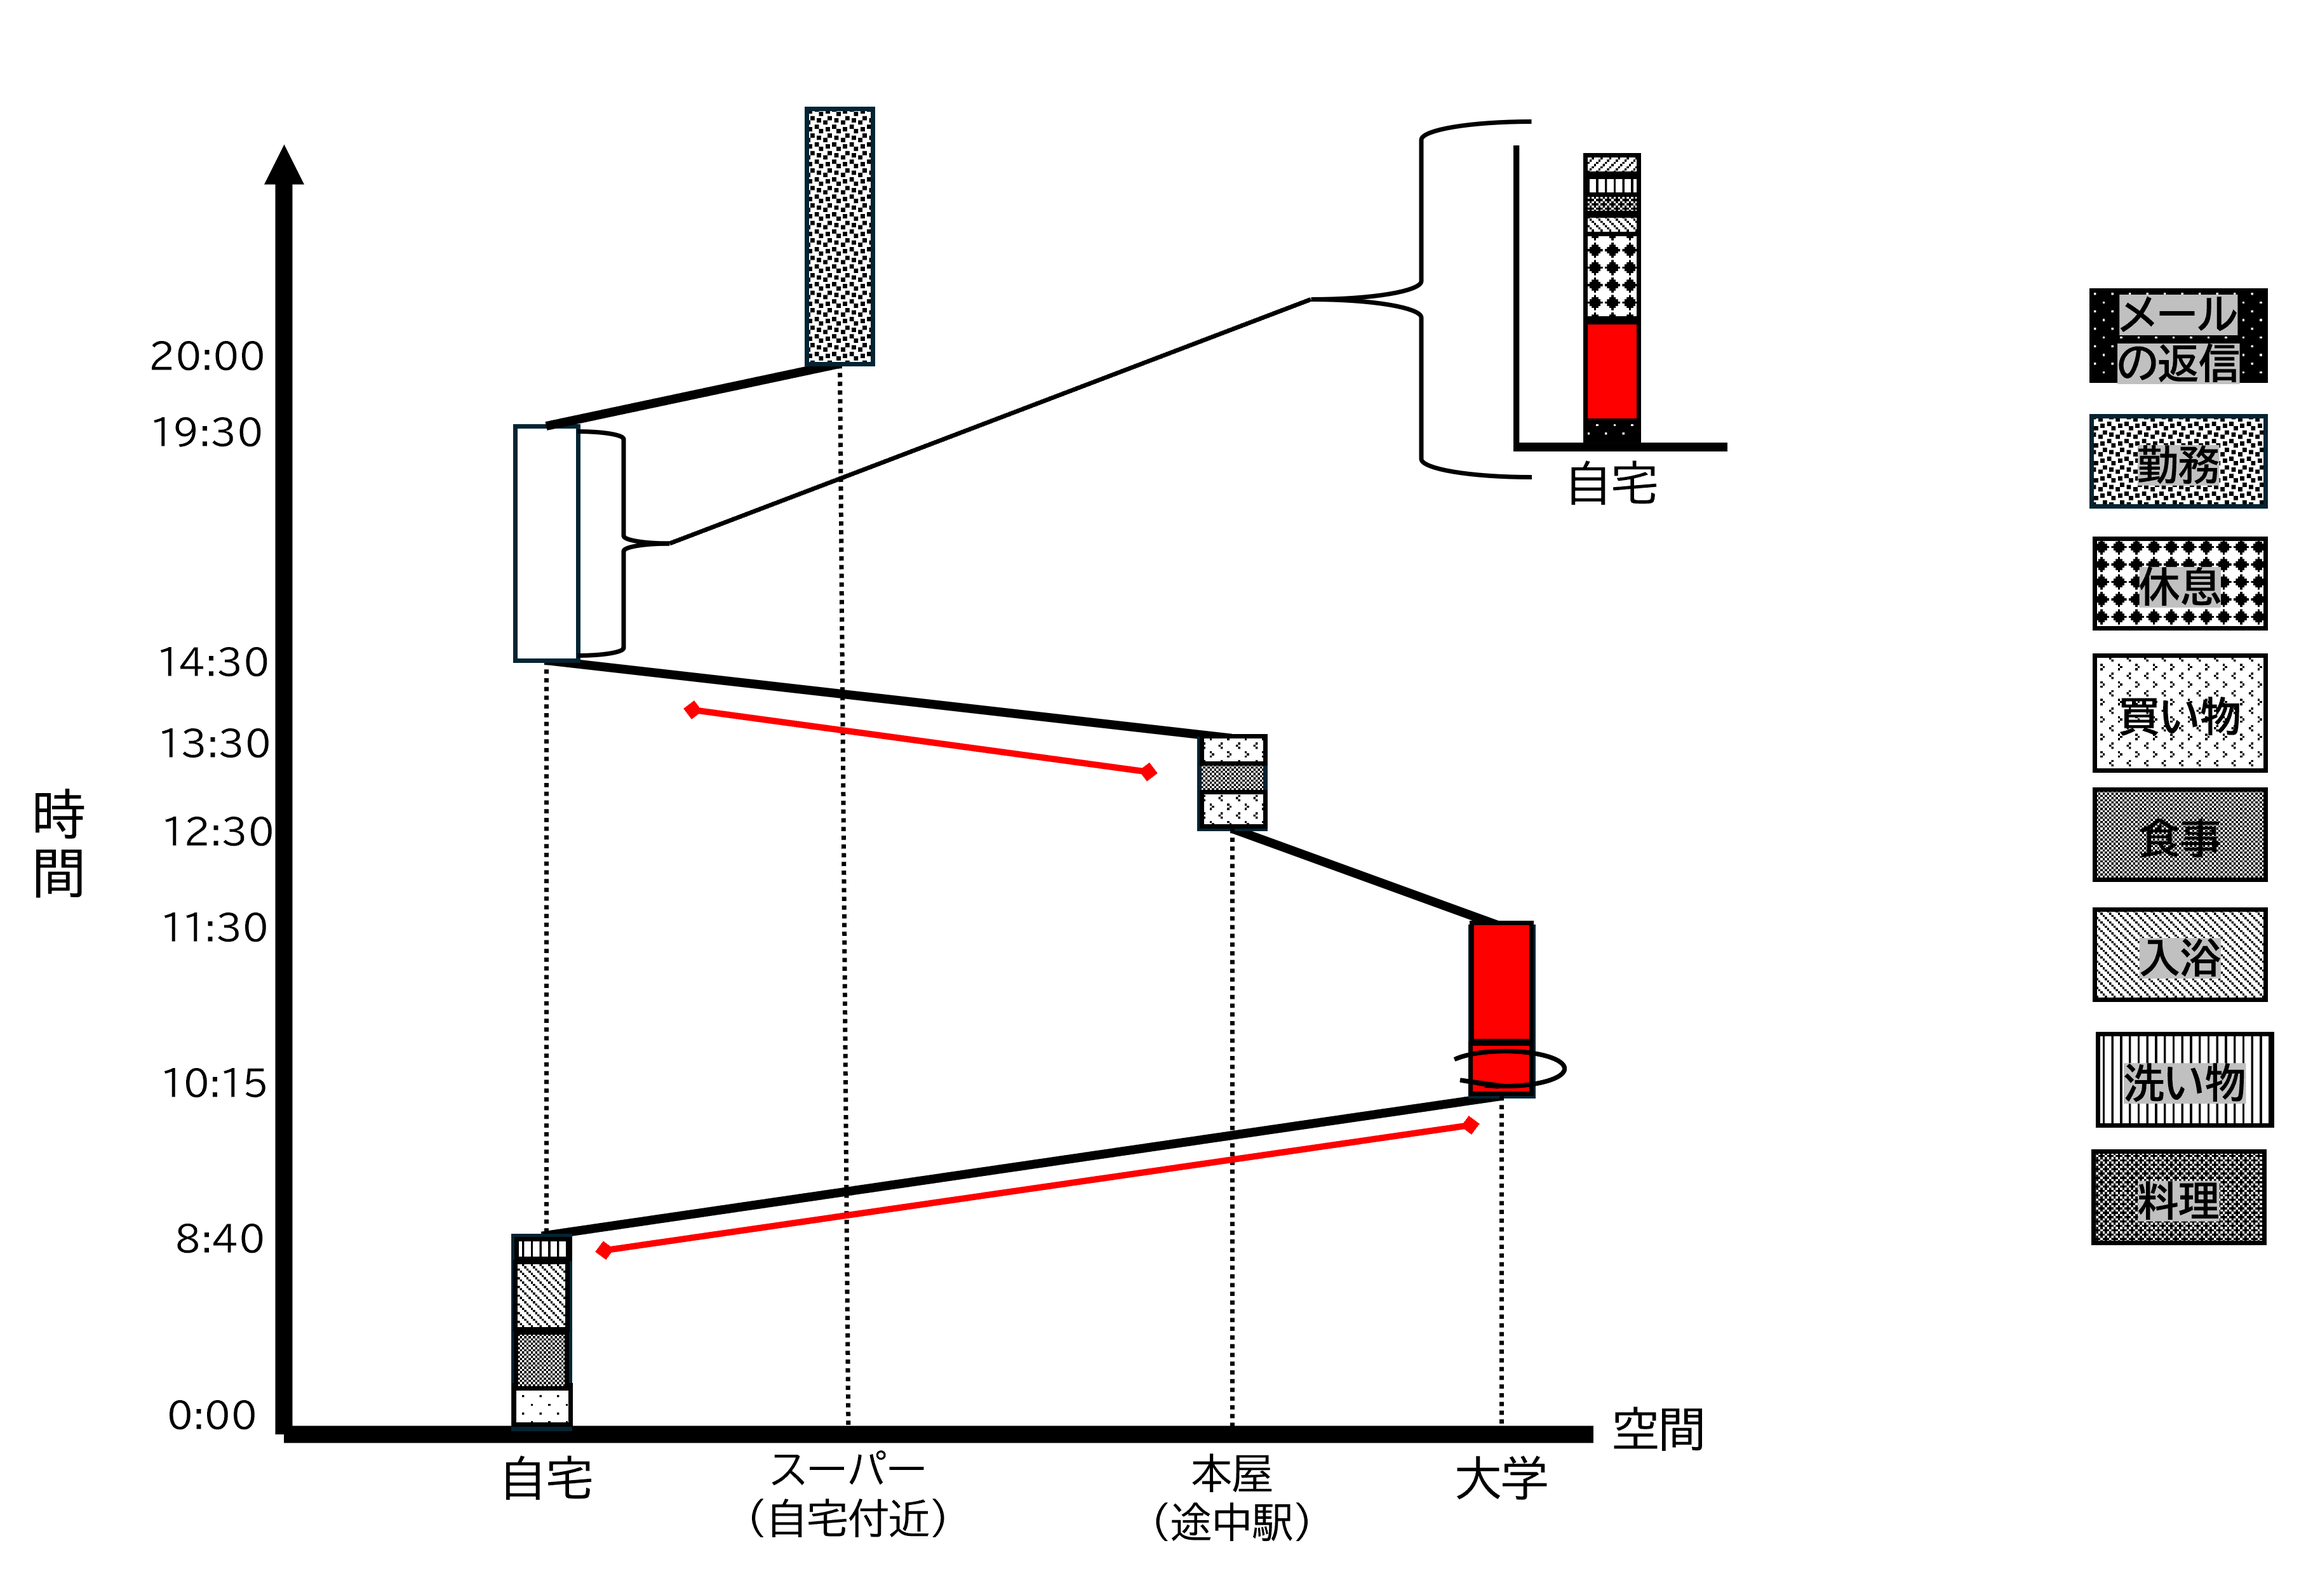
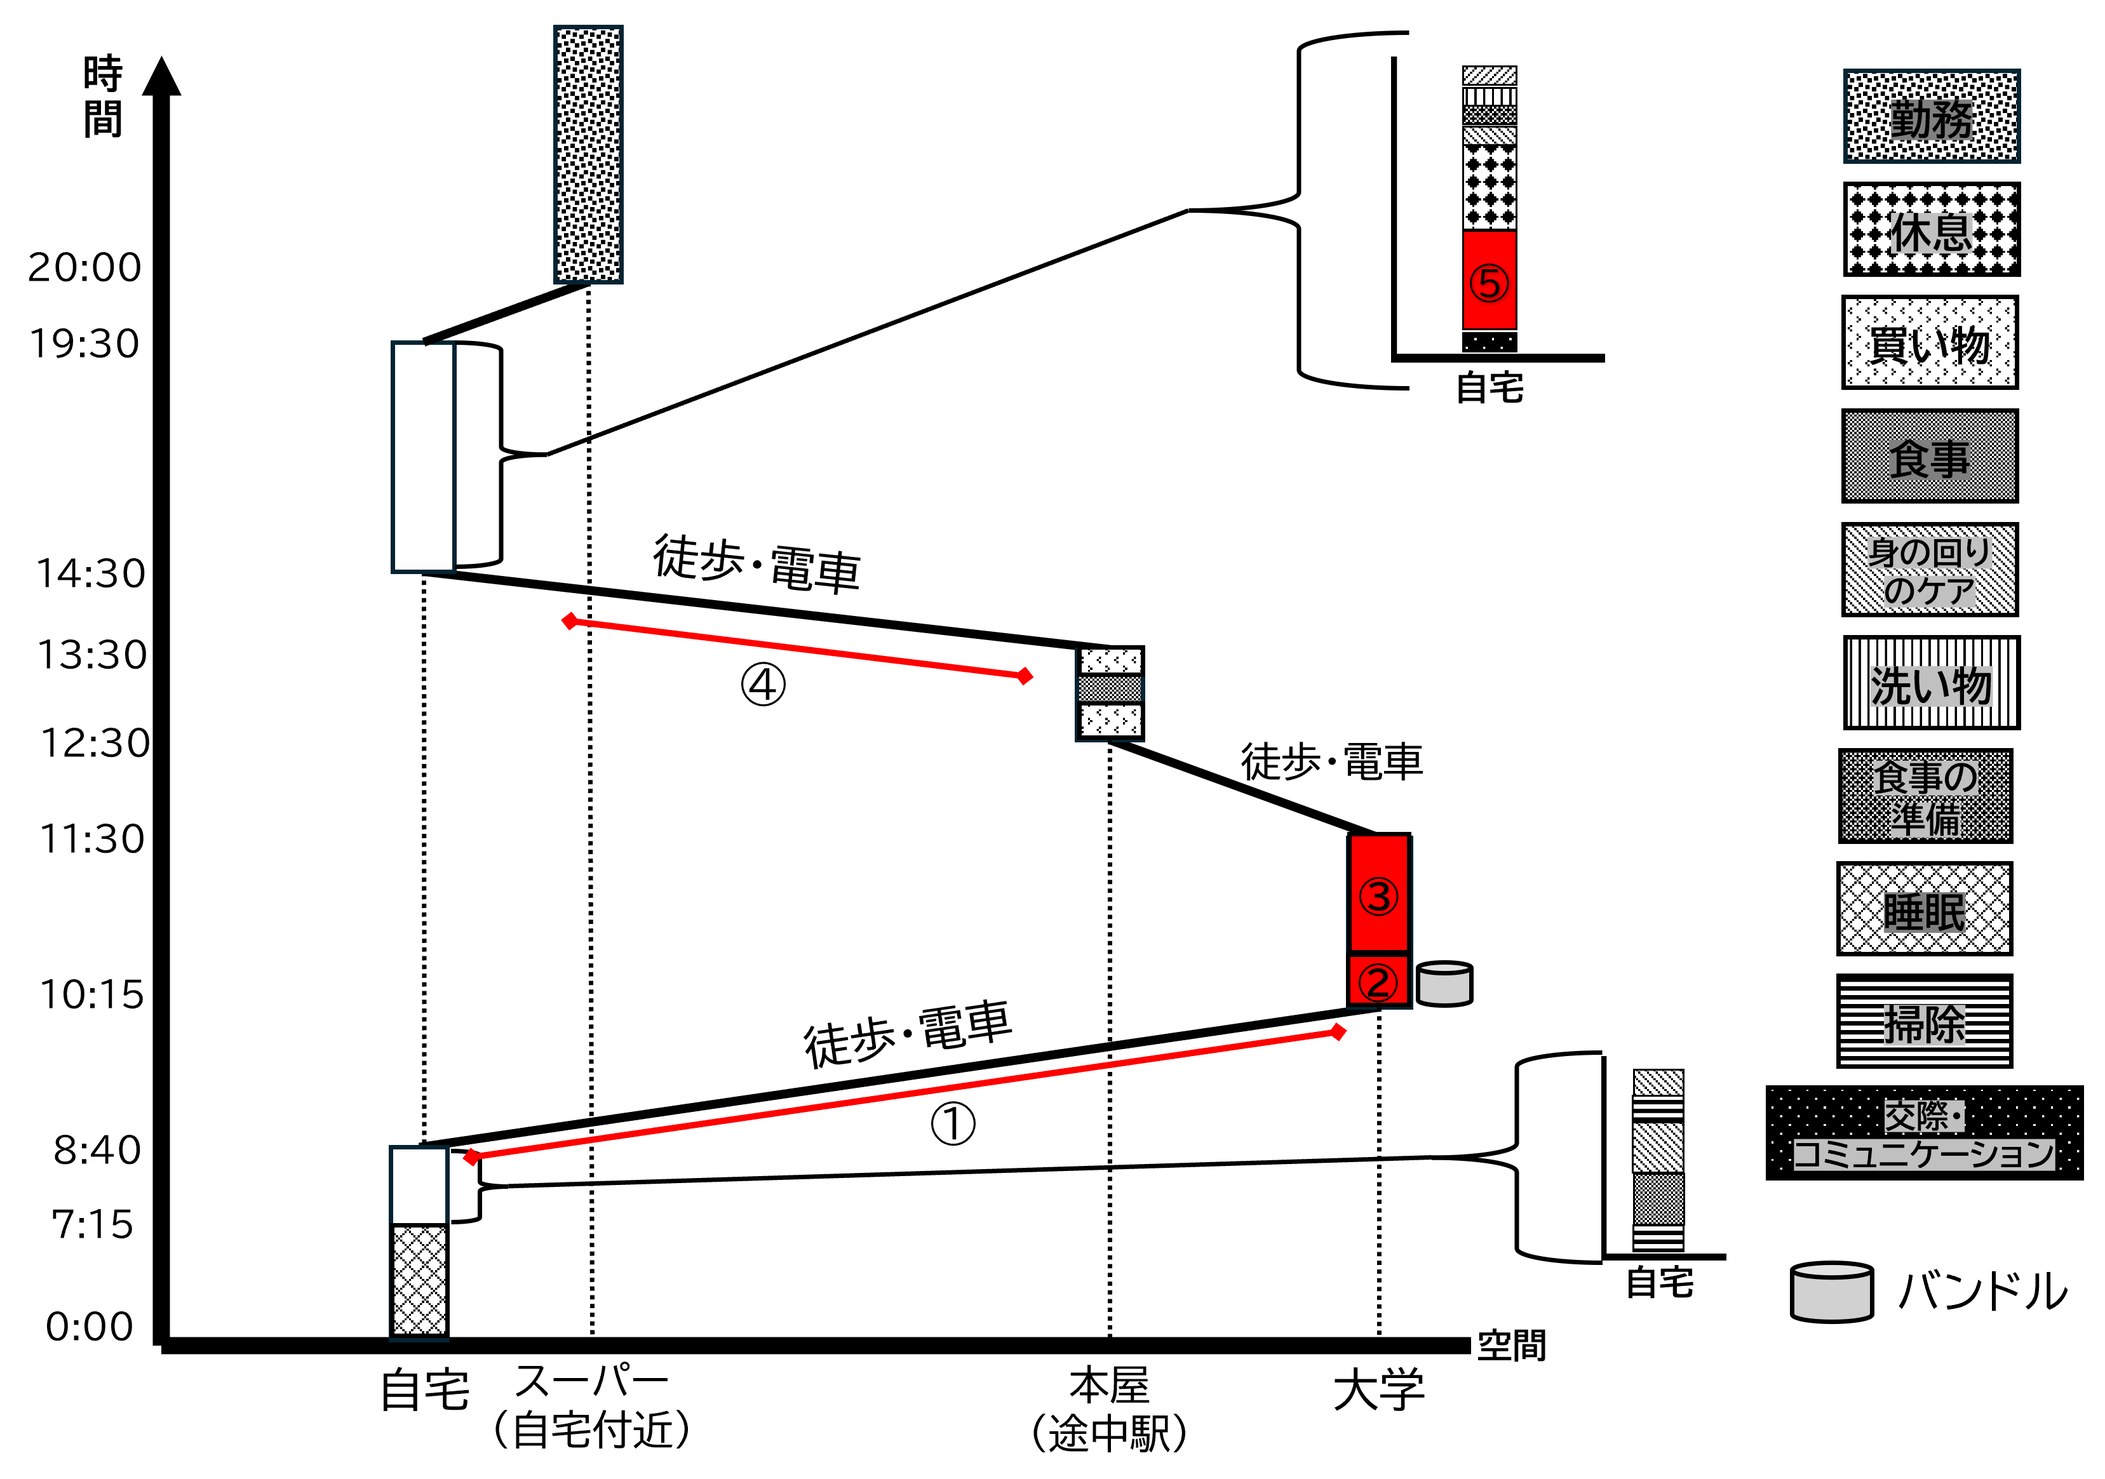
update file

diff --git a/Document/deck_class_20260617_特論.md b/Document/deck_class_20260617_特論.md
@@ -242,3 +242,7 @@ paginate : true
 ---
 
 ![a](../Figure/fig_時空間パスの違い.png)
+
+---
+
+コンピューターの登場により、何千年単位の計算を可能にし、科学の進歩に貢献した
